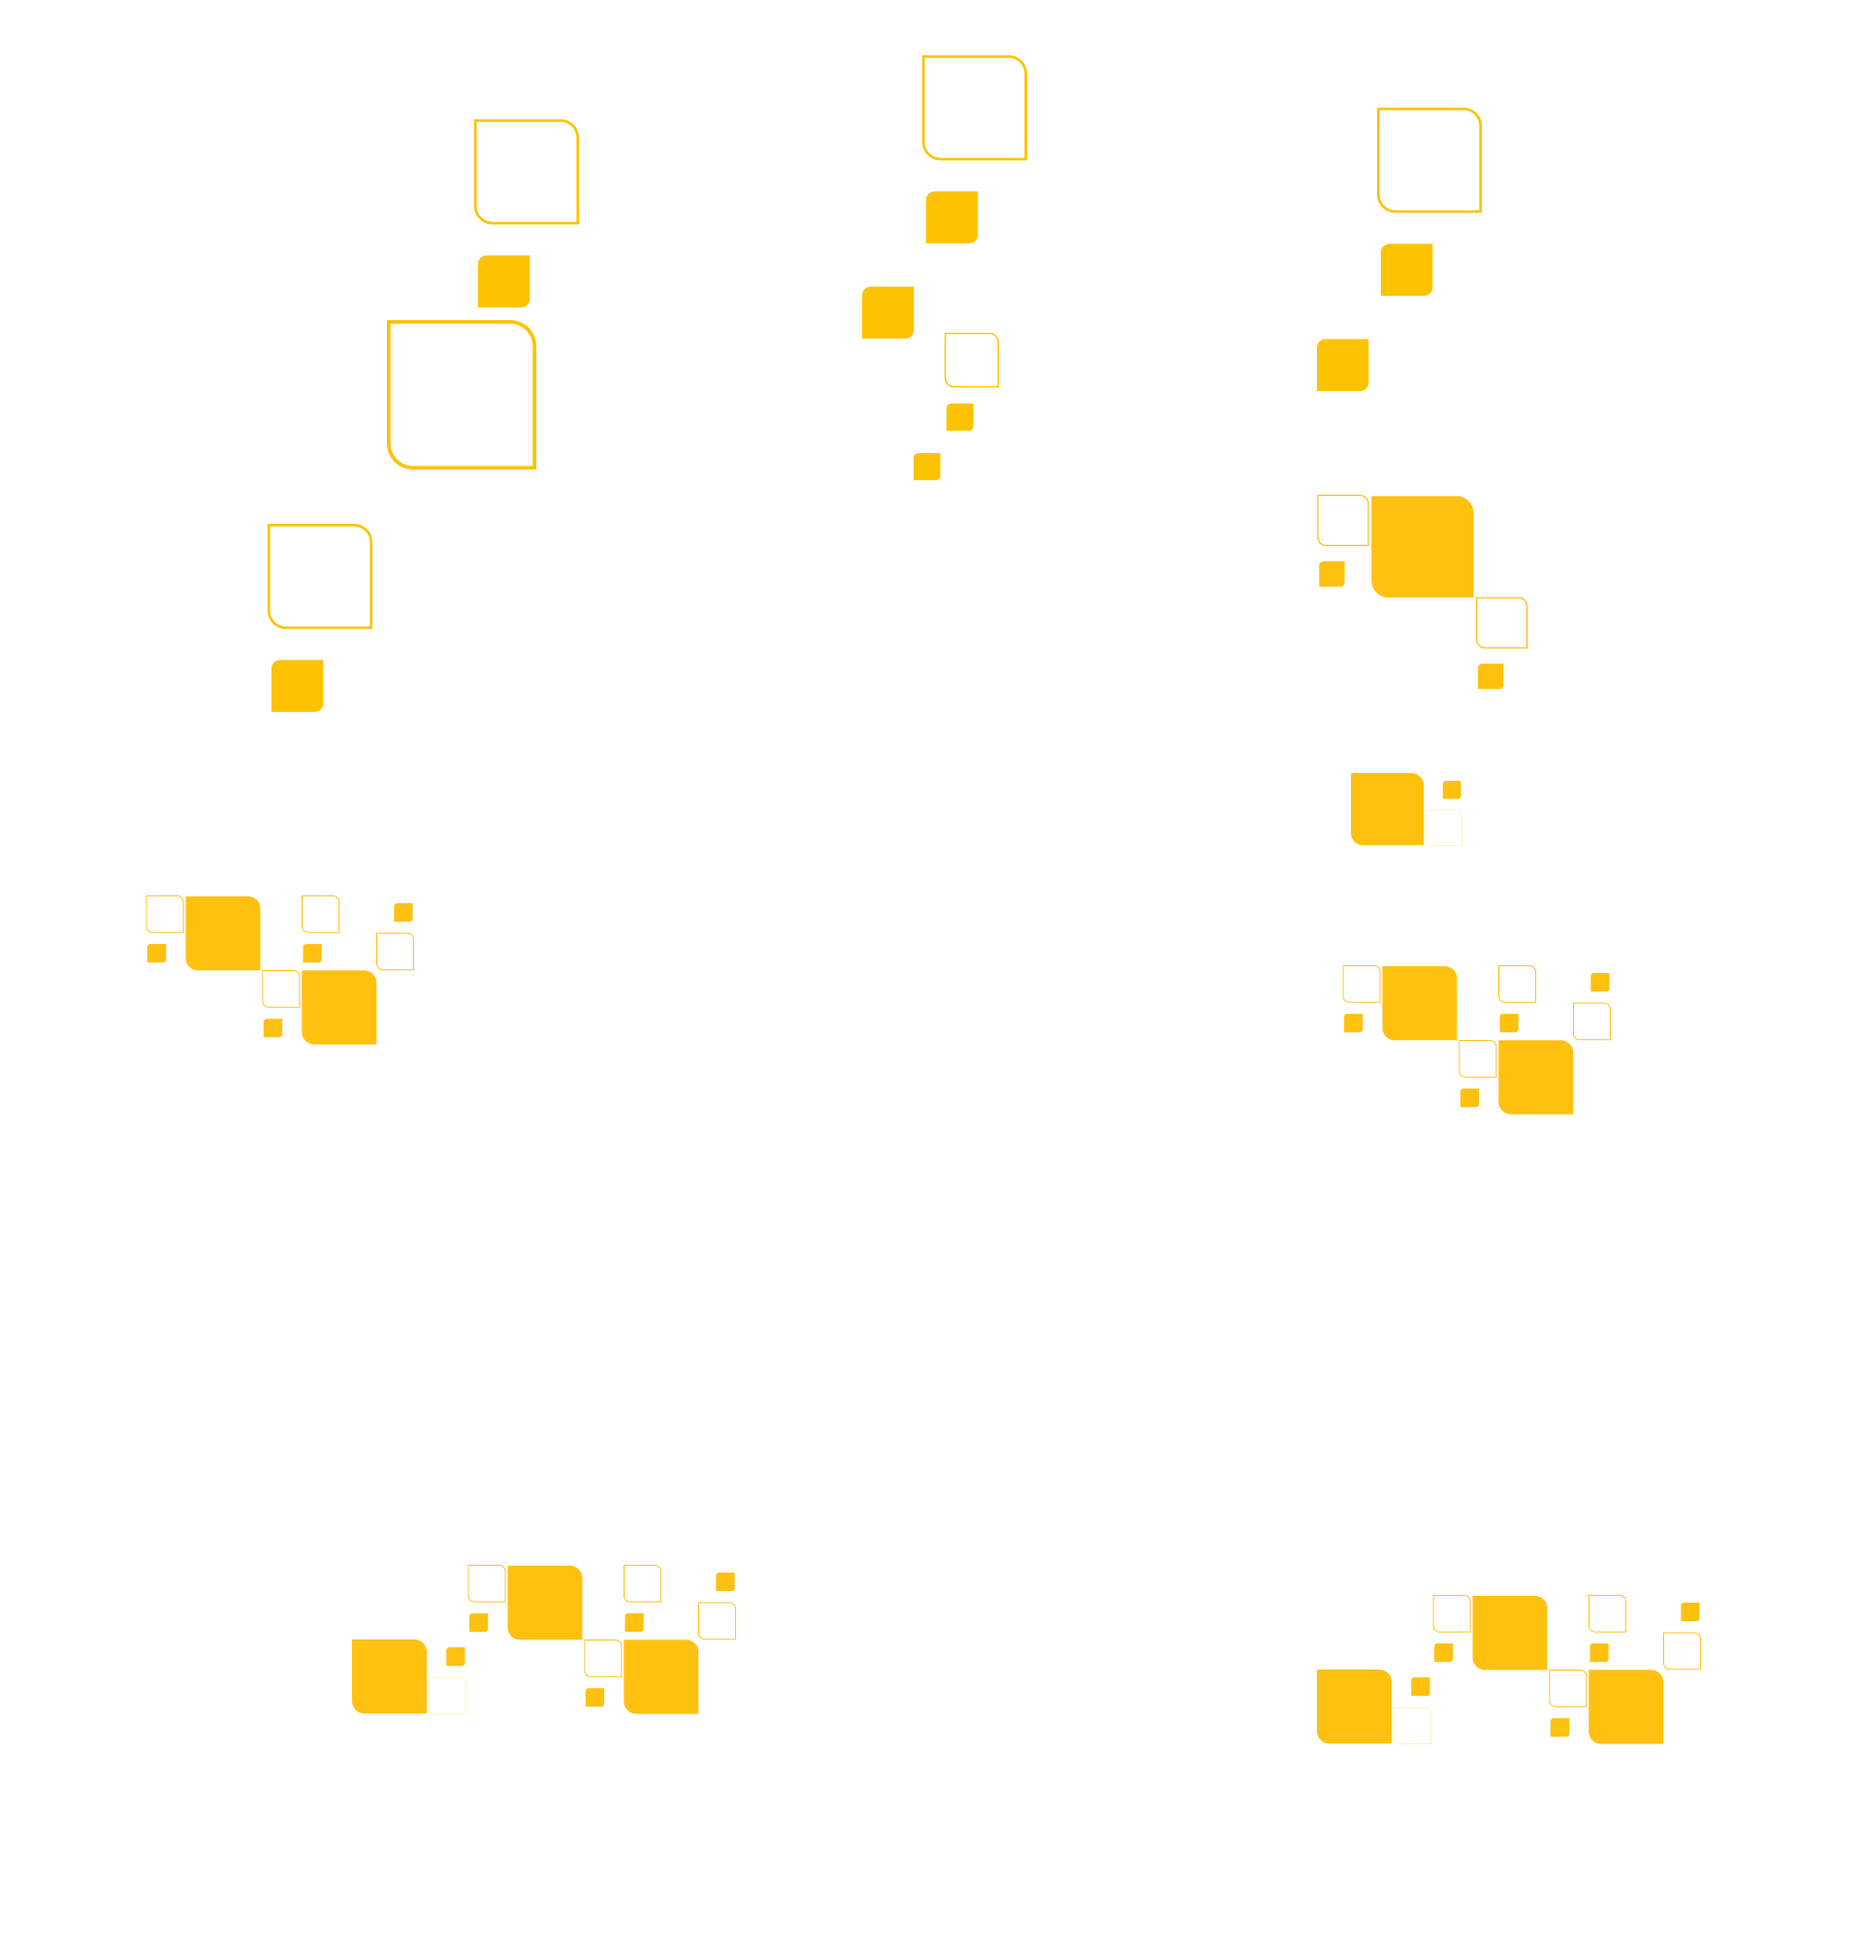
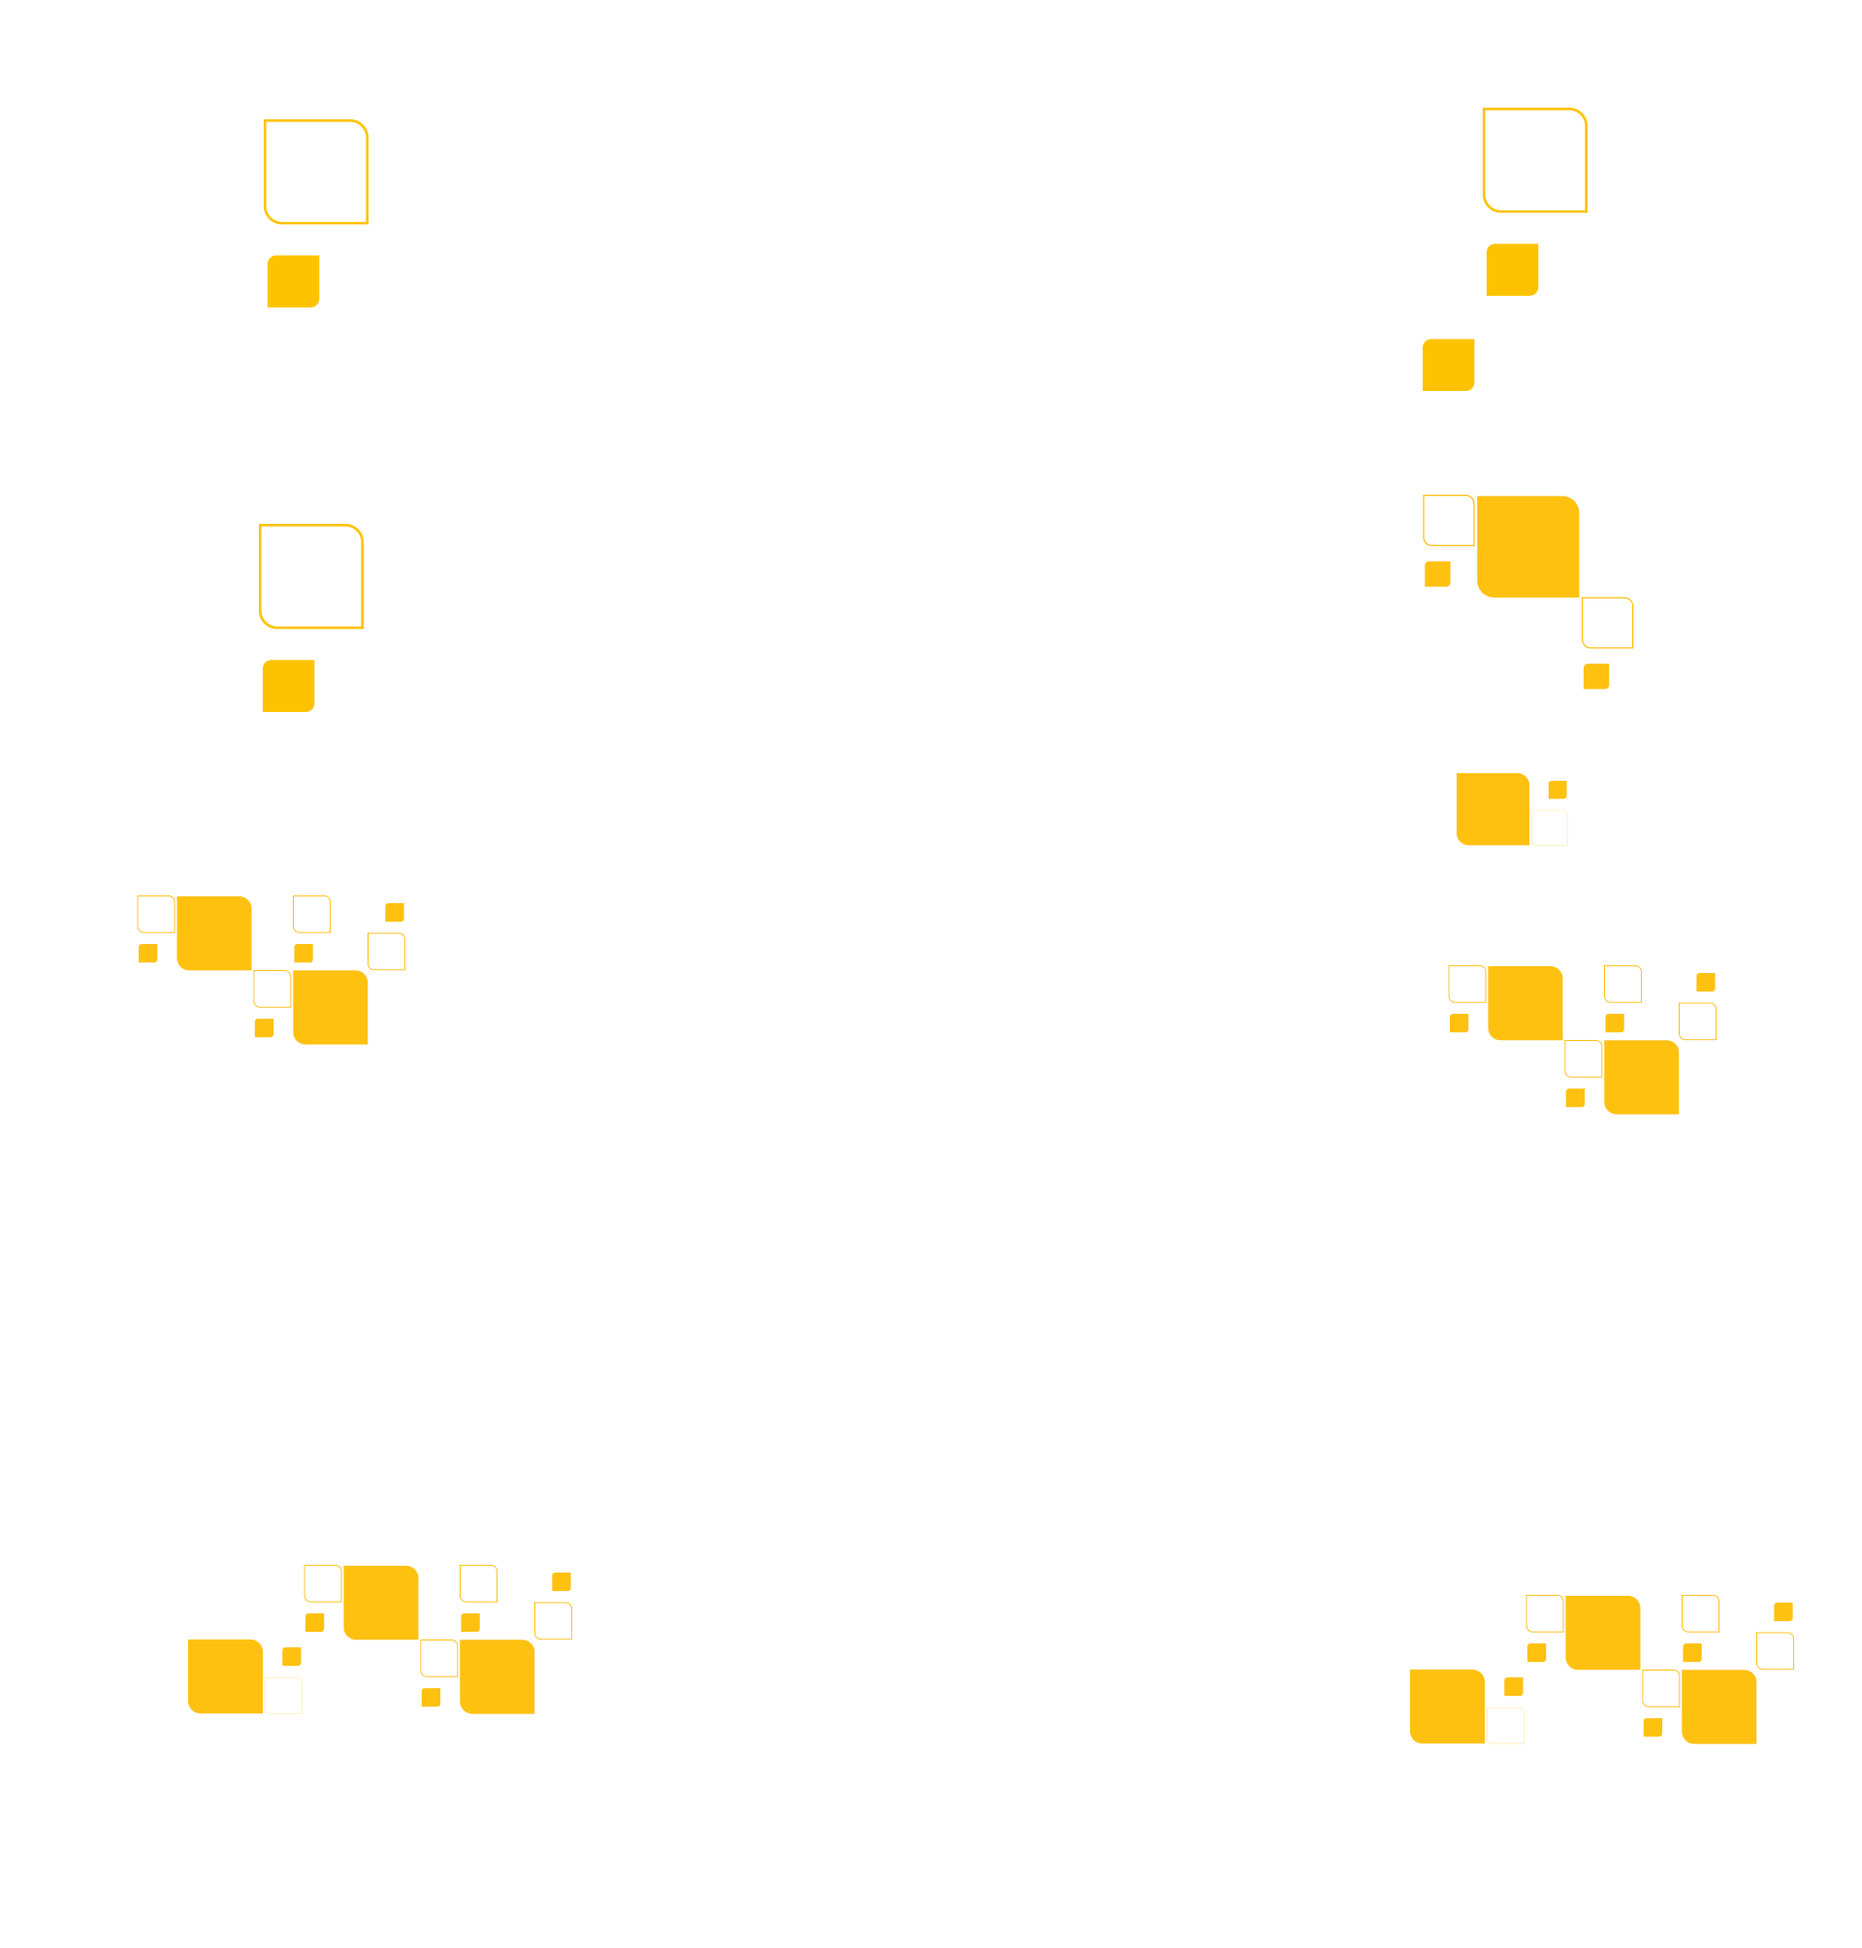
finalized desktop version

diff --git a/index.html b/index.html
@@ -1,5 +1,6 @@
 <!DOCTYPE html>
 <html lang="pt-br">
+
 <head>
     <meta charset="UTF-8">
     <meta name="viewport" content="width=device-width, initial-scale=1.0">
@@ -7,6 +8,7 @@
     <link rel="stylesheet" href="css/_main.css">
     <title>Despertar Ouro Safra</title>
 </head>
+
 <body>
     <header class="menu-bar">
         <div class="menu-bar-itens">
@@ -16,19 +18,19 @@
                 <a class="menu-bar-item" href="#">Cotação das Sementes</a>
                 <a class="menu-bar-item" href="#">Notícias</a>
             </nav>
-        </header>
-        <div class="hero">
-            <!-- <h1 class="hero-title">Derpertar <span>Ouro Safra</span></h1> -->
-            <img class="hero-title" src="assets/logo_despertar.png" alt="">
-            <div class="hero-content">
-                <div class="hero-temperature-grup">
-                    <img class="hero-icon" src="assets/icons/1.svg" alt="">
-                    <h2 class="hero-temperature">25º</h2>
-                </div>
-                <p class="status-climate">parcialmente dublado</p>
+    </header>
+    <div class="hero">
+        <!-- <h1 class="hero-title">Derpertar <span>Ouro Safra</span></h1> -->
+        <img class="hero-title" src="assets/logo_despertar.png" alt="">
+        <div class="hero-content">
+            <div class="hero-temperature-grup">
+                <img class="hero-icon" src="assets/icons/1.svg" alt="">
+                <h2 class="hero-temperature">25º</h2>
             </div>
+            <p class="status-climate">parcialmente dublado</p>
         </div>
-        </div>
+    </div>
+    </div>
     <main class="main">
         <div class="main-title">
             <span class="element-bullet"></span>
@@ -67,17 +69,57 @@
                     <img class="main-content-arrow" src="assets/cresc_arrow.png" alt="">
                 </div>
     </main>
-    <aside>
-        <h2>Notícias</h2>
-        <article>
-            <img src="" alt="">
-            <h3>Lorem ipsum dolor</h3>
-            <p>Lorem ipsum dolor sit, amet consectetur adipisicing elit. Natus nobis repellendus temporibus voluptas harum esse eius unde ullam praesentium inventore. Explicabo aperiam iure officia sunt quidem ut ipsa minima nostrum?</p>
-            <button>Ver mais --></button>
+    <div class="notice-container">
+        <div class="main-title">
+            <span class="element-bullet"></span>
+            <h2 class="title">Notícias</h2>
+        </div>
+    </div>
+    <aside class="articles-container">
+        <article class="article-content">
+            <img class="article-img" src="./assets/iStock-615269462.png" alt="">
+            <h3 class="article-title">Lorem ipsum dolor</h3>
+            <p class="article-text">Lorem ipsum dolor sit, amet consectetur adipisicing elit. Natus nobis repellendus
+                temporibus voluptas harum esse eius unde ullam praesentium inventore. Explicabo aperiam iure officia
+                sunt quidem ut ipsa minima nostrum?</p>
+            <button class="article-btn">Ver mais --></button>
         </article>
-    </aside>
-    <footer>
 
-    </footer>
+        <article class="article-content">
+            <img class="article-img" src="./assets/iStock-615269462.png" alt="">
+            <h3 class="article-title">Lorem ipsum dolor</h3>
+            <p class="article-text">Lorem ipsum dolor sit, amet consectetur adipisicing elit. Natus nobis repellendus
+                temporibus voluptas harum esse eius unde ullam praesentium inventore. Explicabo aperiam iure officia
+                sunt quidem ut ipsa minima nostrum?</p>
+            <button class="article-btn">Ver mais --></button>
+        </article>
+        
+        <article class="article-content">
+            <img class="article-img" src="./assets/iStock-615269462.png" alt="">
+            <h3 class="article-title">Lorem ipsum dolor</h3>
+            <p class="article-text">Lorem ipsum dolor sit, amet consectetur adipisicing elit. Natus nobis repellendus
+                temporibus voluptas harum esse eius unde ullam praesentium inventore. Explicabo aperiam iure officia
+                sunt quidem ut ipsa minima nostrum?</p>
+            <button class="article-btn">Ver mais --></button>
+        </article>
+
+    </aside>
+    <footer class="footer-container">
+        <div class="footer-content">
+            <div class="social-icons-container">
+                <a href="">
+                    <img class="social-icon" src="./assets/_instagram_icon.png" alt="">
+                </a>
+                <a href="">
+                    <img class="social-icon" src="assets/fb_social_icon.png" alt="">
+                </a>
+                <a href="">
+                    <img class="social-icon" src="assets/linkedin_icon.png" alt="">
+                </a>
+            </div>
+            <img class="menu-bar-img" src="assets/logo_ourosafra.svg" alt="">
+        </footer>
+        </div>
 </body>
+
 </html>

diff --git a/css/globals.css b/css/globals.css
@@ -3,7 +3,7 @@
 body{
     max-width: 100vw;
     max-height: 100vh;
-    /* background-image: url(/assets/bg.png); */
+    background-image: url(/assets/bg.png);
     background-repeat: no-repeat;
     background-attachment: fixed;
     background-position: top;
@@ -103,7 +103,7 @@ body{
     border-radius: 10px 0;
 }
 
-.main{
+.main, .notice-container{
     display: flex;
     flex-direction: column;
     justify-content: center;
@@ -205,4 +205,81 @@ body{
 .main-content-arrow{
     width: 10%;
     padding-bottom: .1rem;
+}
+
+.notice-container{
+    margin-top: 3rem;
+}
+.articles-container{
+    display: flex;
+    flex-direction: row;
+    max-width: 100dvw;
+    background-color: var(--primary-color);
+    padding: 3rem 1rem;
+    justify-content: space-around;
+    align-items: center;
+    gap: 2rem;
+}
+
+.article-content{
+    display: flex;
+    flex-direction: column;
+    max-width: 20rem;
+    background-color: var(--secundary-color-ultralight);
+    border-radius: 0 50px;
+}
+
+.article-img{
+    border-radius: 0 50px 0 0;
+    width: 100%;
+    height: 10rem;
+    object-fit: cover;
+}
+
+.article-btn{
+    width: 8rem;
+    align-self: end;
+    background-color: var(--primary-color);
+    color: var(--secundary-color-ultralight);
+    padding: .5rem;
+    border-radius: 1rem;
+    margin: .5rem;
+}
+
+.article-title{
+    font-size: 1.4rem;
+    padding: .8rem;
+}
+
+.article-text{
+    padding: 0 .8rem .8rem .8rem;
+    text-align: justify;
+}
+
+.footer-container{
+    background-color: var(--secundary-color);
+    display: flex;
+    flex-direction: row;
+    max-width: 100vw;
+    margin-top: 7rem;
+}
+
+.footer-content{
+    display: flex;
+    flex-direction: row;
+    width: 80%;
+    justify-content: space-between;
+    align-items: center;
+    margin: 0 auto;
+    padding: 1rem;
+}
+
+.social-icons-container{
+    display: flex;
+    flex-direction: row;
+    gap: 2rem;
+}
+
+.social-icon{
+    width: 2rem;
 }
